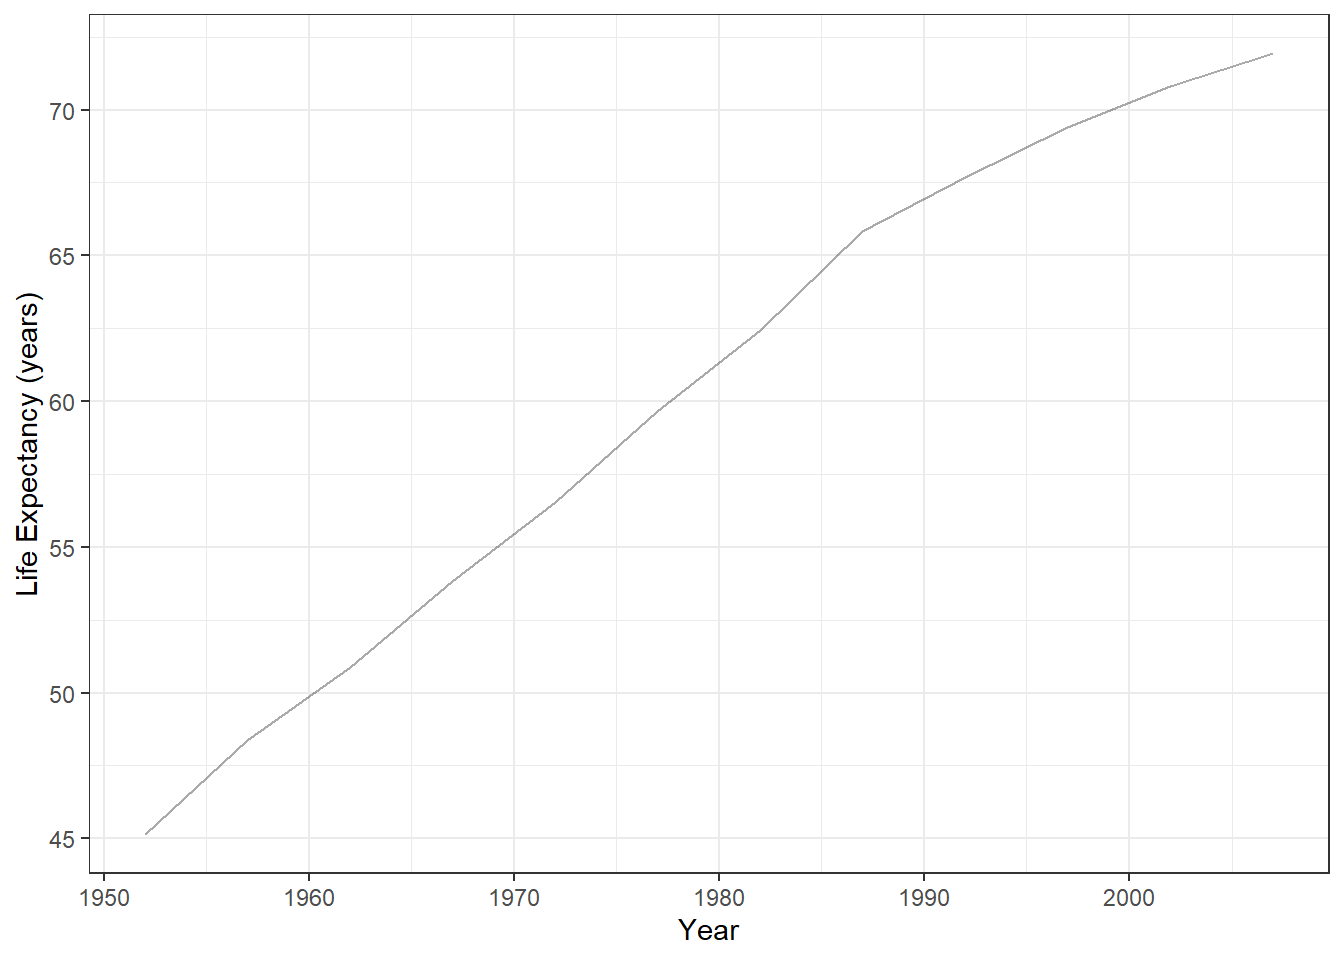
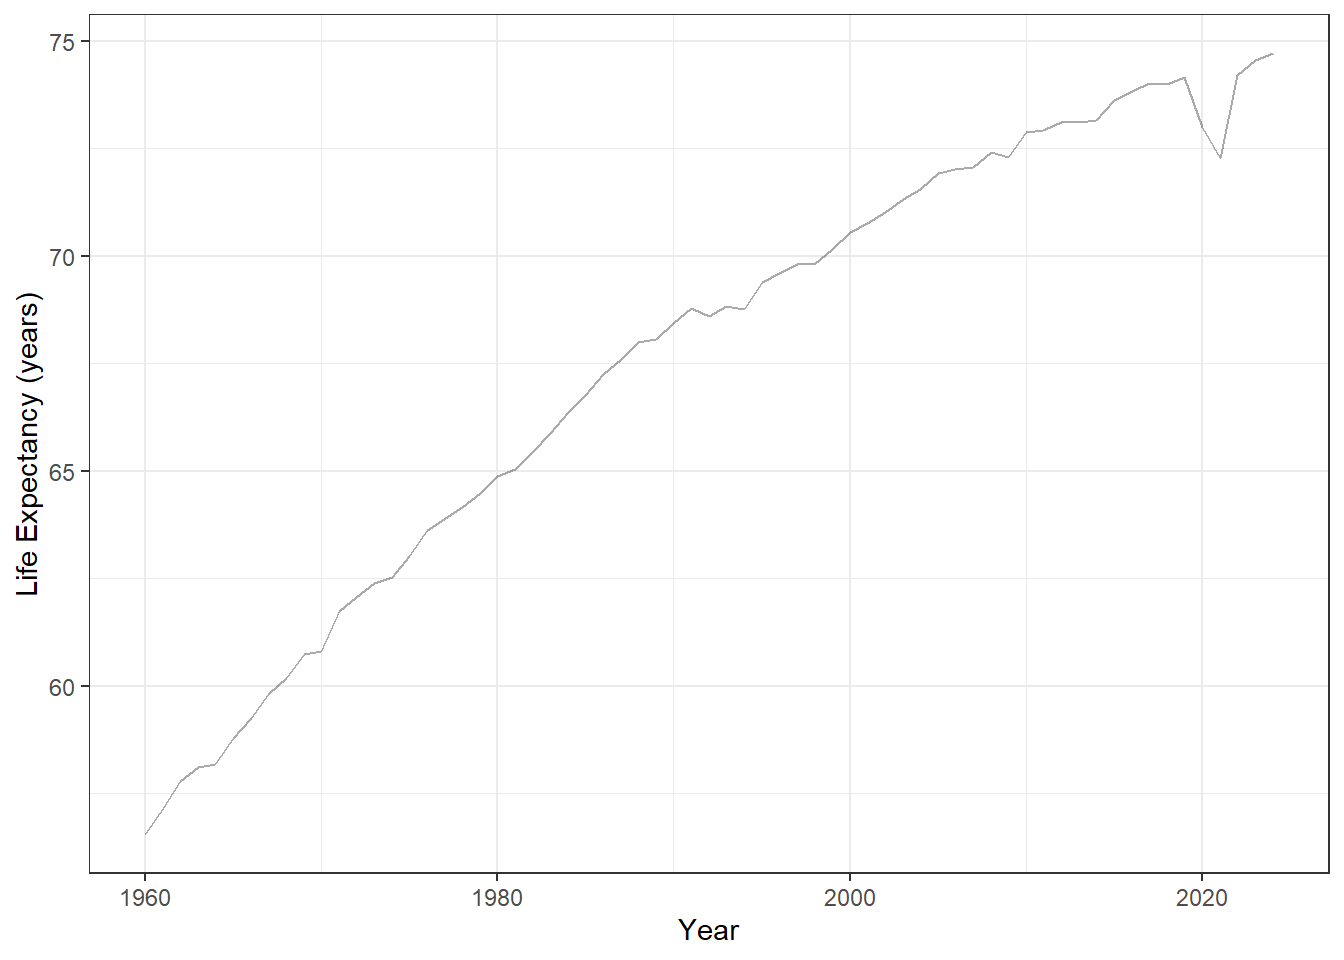
Intro figures from World Bank data through 2024, matching the slides

diff --git a/docs/intro.html b/docs/intro.html
@@ -516,7 +516,7 @@ ul.task-list li input[type="checkbox"] {
 
 <section id="health-improvements" class="level2">
 <h2 class="anchored" data-anchor-id="health-improvements">Health Improvements</h2>
-<p>Since 1950, global life expectancy has risen dramatically, driven by poverty reduction, public health advances, and wider access to basic care. People live longer, healthier lives, with fewer deaths from infectious disease and better quality of life overall (<a href="#fig-life-exp" class="quarto-xref">Figure&nbsp;<span>1</span></a>).</p>
+<p>Since 1960, global life expectancy has risen dramatically, driven by poverty reduction, public health advances, and wider access to basic care. People live longer, healthier lives, with fewer deaths from infectious disease and better quality of life overall (<a href="#fig-life-exp" class="quarto-xref">Figure&nbsp;<span>1</span></a>).</p>
 <div class="cell">
 <div class="cell-output-display">
 <div id="fig-life-exp" class="quarto-float quarto-figure quarto-figure-center anchored">
